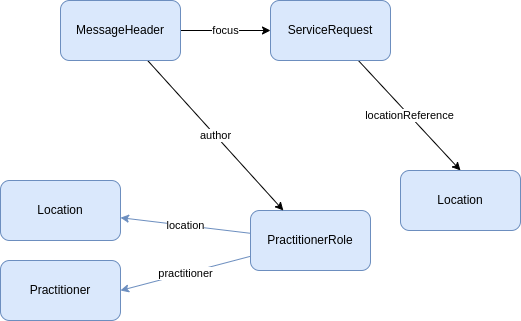
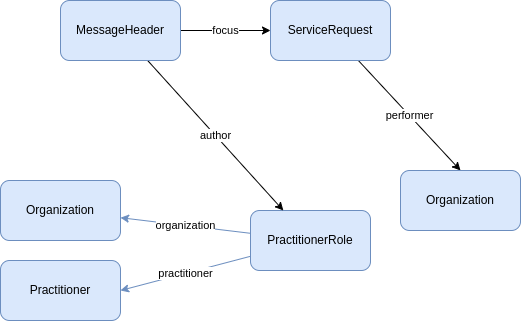
update: imagenes y contenido de evento referenciada

diff --git a/input/pagecontent/EventoReferenciada.md b/input/pagecontent/EventoReferenciada.md
@@ -23,11 +23,11 @@ Los codigos de evento deben ser incluidos en el recurso **MessageHeader.evenCodi
 
 Los recursos usados en este evento son los siguientes:
 
-* [ServiceRequest](link): Recurso principal para reflejar los datos de la interconsulta
-* [MessageHeader](link): lorem
-* [PractitionerRole](link): lorem
-* [Practitioner](link): lorem
-* [Location](link): lorem
+* [BundleReferenciadaLE](StructureDefinition-BundleReferenciadaLE.html): Recurso que permite agrupar los datos del mensaje.
+[ServiceRequestLE](StructureDefinition-ServiceRequestLE.html): Recurso principal para reflejar los datos de la interconsulta (MessageHeader.focus)
+* [MessageHeaderLE](StructureDefinition-MessageHeaderLE.html): Recurso que contiene datos relacionados al mensaje, como el autor, tipo de evento y foco del mensaje.
+* [PractitionerRoleLE](StructureDefinition-PractitionerRoleLE.html): Recurso que permite reflejar la información relacionada al invididuo autor del proceso (MessageHeader.author)
+* [OrganizationLE](StructureDefinition-OrganizationLE.html): Recurso que permite relacionar la interconsulta con el establecimiento de destino
 
 ## Relaciones de Recursos
 
@@ -41,13 +41,24 @@ Los recursos usados en este evento son los siguientes:
 
 ## Secuencia del Evento
 
-El evento referenciada debe soportar a siguiente secuencia:
-
-Diagrama de Secuencia por definir
+El evento inicio debe soportar las siguientes secuencias:
+<div align="center" >
+{% include evento-referenciada.svg %}
+</div>
 
 ## Consideraciones
 
 Las validaciones internas que debe tener el implementador deben considerar cumplir con el conjunto de datos detallado en [Conjunto mínimo de datos](http://link)
+
+* Debe incluir el recurso [BundleReferenciadaLE](StructureDefinition-BundleReferenciadaLE.html)
+* Debe incluir el recurso [ServiceRequestLE](StructureDefinition-ServiceRequestLE.html) con los valores de **ServiceRequest.status=draft** **ServiceRequest.intent=proposal** 
+* Debe incluir el recurso [MessageHeaderLE](StructureDefinition-MessageHeaderLE.html) con el valor **MessageHeader.evenCoding.code=inicio** 
+* Debe incluir el recurso [OrganizationLE](StructureDefinition-OrganizationLE.html)
+* Debe incluir el recurso [PractitionerRoleLE](StructureDefinition-PractitionerRoleLE.html)
+
+## Mensaje Bundle de Ejemplo
+
+* [BundleReferenciadaLE](Bundle-EjemploBundleReferenciada.html)
 
 ## Notas
 

diff --git a/input/pagecontent/EventoInicio.md b/input/pagecontent/EventoInicio.md
@@ -75,7 +75,7 @@ El Bundle de envío debe cumplir con las siguientes condiciones en este evento:
 
 ## Mensaje Bundle de Ejemplo
 
-* [BundleInicioLE](Bundle-EjemploBundle.html)
+* [BundleInicioLE](Bundle-EjemploBundleInicio.html)
 
 ## Notas
 
